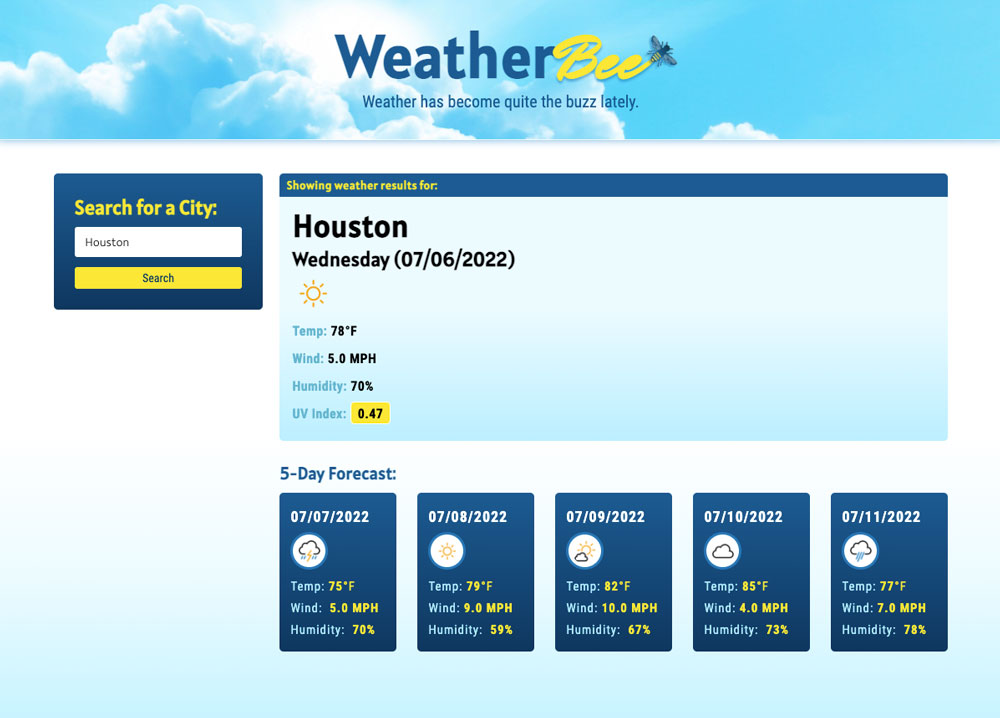
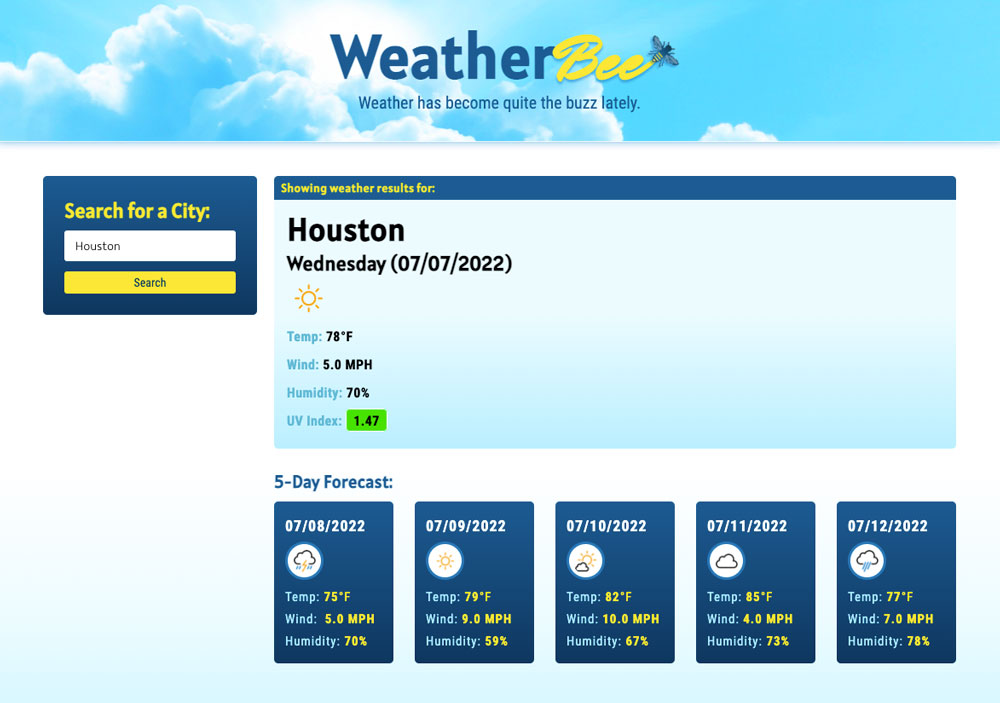
revised READ ME file

diff --git a/assets/js/script.js b/assets/js/script.js
@@ -2,13 +2,6 @@
 var cityUrl = "https://api.openweathermap.org/geo/1.0/direct?limit=5&appid=e0c79796705c396d02d89d49c8fdba43";
 var key = "e0c79796705c396d02d89d49c8fdba43";
 var fiveDayArray = [1, 2, 3, 4, 5];
-// var day1 = document.getElementById("forecast-date-results-1");
-// var day2 = document.getElementById("forecast-date-results-2");
-// var day3 = document.getElementById("forecast-date-results-3");
-// var day4 = document.getElementById("forecast-date-results-4");
-// var day5 = document.getElementById("forecast-date-results-5");
-// var datesForAllDays = ["day1", "day2", "day3", "day4", "day5"];
-// console.log(datesForAllArrays);
 var mainResultEl = document.querySelector("#main-section-result");
 var weatherIcon = document.querySelector(".weather-icon");
 var temp = document.getElementById("temperature");
@@ -51,19 +44,19 @@ var onSearchSubmit = function(event) {
         var uvData = res.current.uvi;
         if (uvData <= 2.9) {
           var normal = document.querySelector(".uv-levels");
-          normal.setAttribute("style", "background-color:#009400;");
+          normal.setAttribute("style", "background-color:#00e200;");
         } else if (uvData >= 3.0 && uvData <= 5.9) {
           var aboveNormal = document.querySelector(".uv-levels");
-          aboveNormal.setAttribute("style", "background-color:#e99700;");
+          aboveNormal.setAttribute("style", "background-color:#fee736;");
         } else if (uvData >= 6.0 && uvData <= 7.9) {
           var high = document.querySelector(".uv-levels");
-          high.setAttribute("style", "background-color:#ffdd00;");
+          high.setAttribute("style", "background-color:#ffa909;");
         } else if (uvData >= 8.0 && uvData <= 9.9) {
           var veryHigh = document.querySelector(".uv-levels");
-          veryHigh.setAttribute("style", "background-color:#eb0000;");
+          veryHigh.setAttribute("style", "background-color:#fd0b57;");
         } else if (uvData >= 10.0) {
           var extreme = document.querySelector(".uv-levels");
-          extreme.setAttribute("style", "background-color:#b604fd;");
+          extreme.setAttribute("style", "background-color:#c32aff;");
         } else {
           console.log("no color");
         };
@@ -88,10 +81,6 @@ var onSearchSubmit = function(event) {
         for (var i = 0; i < fiveDayArray.length; i++) {
             dailyForecast(fiveDayArray[i]);
         }
-
-        // for (var i = 0; i < fiveDays.length; i++) {
-        //   dailyForecast(fiveDays[i]);
-        // }
   
         console.log(res.daily[0]);
     });

diff --git a/index.html b/index.html
@@ -45,7 +45,7 @@
           <h4>Temp:&nbsp<span id="temperature">78</span><span class="degrees">&degF</span></h4>
           <h4>Wind:&nbsp<span id="wind">5.0 MPH</span></h4>
           <h4>Humidity:&nbsp<span id="humidity">70%</span></h4>
-          <h4>UV Index:&nbsp<span id="uv-index" class="uv-levels">0.47</span></h4>
+          <h4>UV Index:&nbsp<span id="uv-index" class="uv-levels">1.47</span></h4>
         </div>
       </div>
       <!-- START: 5 DAY FORECAST SECTION -->

diff --git a/assets/css/style.css b/assets/css/style.css
@@ -238,7 +238,7 @@ input::placeholder {
 }
 
 .uv-levels {
-  background-color: var(--accent-drk-yellow);
+  background-color: #00e200;
   padding: 4px 8px 2px 8px;
   border-radius: 5px;
   border: 1px solid var(--accent-color-white);
